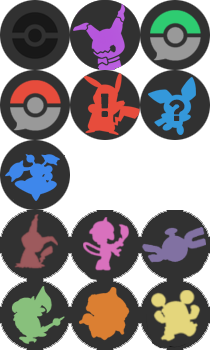
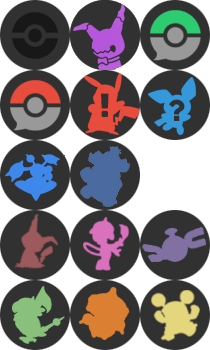
Add separate thumbnail for meme-flaired posts

diff --git a/src/linkflair.css b/src/linkflair.css
@@ -80,6 +80,9 @@ remember to update moontheme.css as well!!! */
     border-left-color: #e87b0c !important
 }
 .thing.link.linkflair-meme {
+    border-left-color: #4b6aa0 !important
+}
+.thing.link.linkflair-noob {
     border-left-color: #3498db !important
 }
 .thing.link.linkflair-rule {
@@ -109,6 +112,9 @@ remember to update moontheme.css as well!!! */
     background: #e87b0c
 }
 .flairselector .linkflair-meme {
+    background: #4b6aa0
+}
+.flairselector .linkflair-noob {
     background: #3498db
 }
 .flairselector .linkflair-rule {
@@ -170,6 +176,7 @@ html:lang(nc) .listing-page .link.linkflair-craft {
 /* flair selector
 --------------------------------------------------------------------------------*/
 .flairselector {
+    width: 190px!important;
     box-shadow: 1px 1px 10px #000;
     border: 1px solid #353535!important
 }
@@ -205,8 +212,17 @@ html:lang(nc) .listing-page .link.linkflair-craft {
     margin: 2px
 }
 .flairselector input[type=text] {
+    width: 125px;
     border: 1px solid #cecdcd;
     padding: 5px
+}
+
+.flairoptionpane .flairsample-left {
+    width: 89px!important;
+}
+.flairoptionpane ul {
+    width: 178px;
+    float: none!important;
 }
 
 .flairselector .linkflair .title {

diff --git a/src/thing.css b/src/thing.css
@@ -126,6 +126,11 @@
 .thing.linkflair-craft .midcol+.entry a.title:before {
     background: -70px -280px;
 }
+.linkflair-meme .thumbnail.default,
+.linkflair-meme .thumbnail.self,
+.thing.linkflair-meme .midcol+.entry a.title:before {
+    background: -70px -140px;
+}
 .linkflair-info .thumbnail.default,
 .linkflair-info .thumbnail.self,
 .thing.linkflair-info .midcol+.entry a.title:before {
@@ -145,10 +150,10 @@
     background: -140px 0
 }
 
-.linkflair-meme .thumbnail.default,
-.linkflair-meme .thumbnail.self,
-.thing.linkflair-meme .midcol+.entry a.title:before {
-    background: -140px -70px
+.linkflair-noob .thumbnail.default,
+.linkflair-noob .thumbnail.self,
+.thing.linkflair-noob .midcol+.entry a.title:before {
+    background: -140px -70px;
 }
 .linkflair-rotation .thumbnail.default,
 .linkflair-rotation .thumbnail.self,

diff --git a/src/moontheme.css b/src/moontheme.css
@@ -479,6 +479,9 @@ html[lang$=nm] .thing.linkflair-craft .linkflairlabel {
     color: #e87b0c !important
 }
 html[lang$=nm] .thing.linkflair-meme .linkflairlabel {
+    color: #4b6aa0 !important
+}
+html[lang$=nm] .thing.linkflair-noob .linkflairlabel {
     color: #3498db !important
 }
 html[lang$=nm] .thing.linkflair-rule .linkflairlabel {
